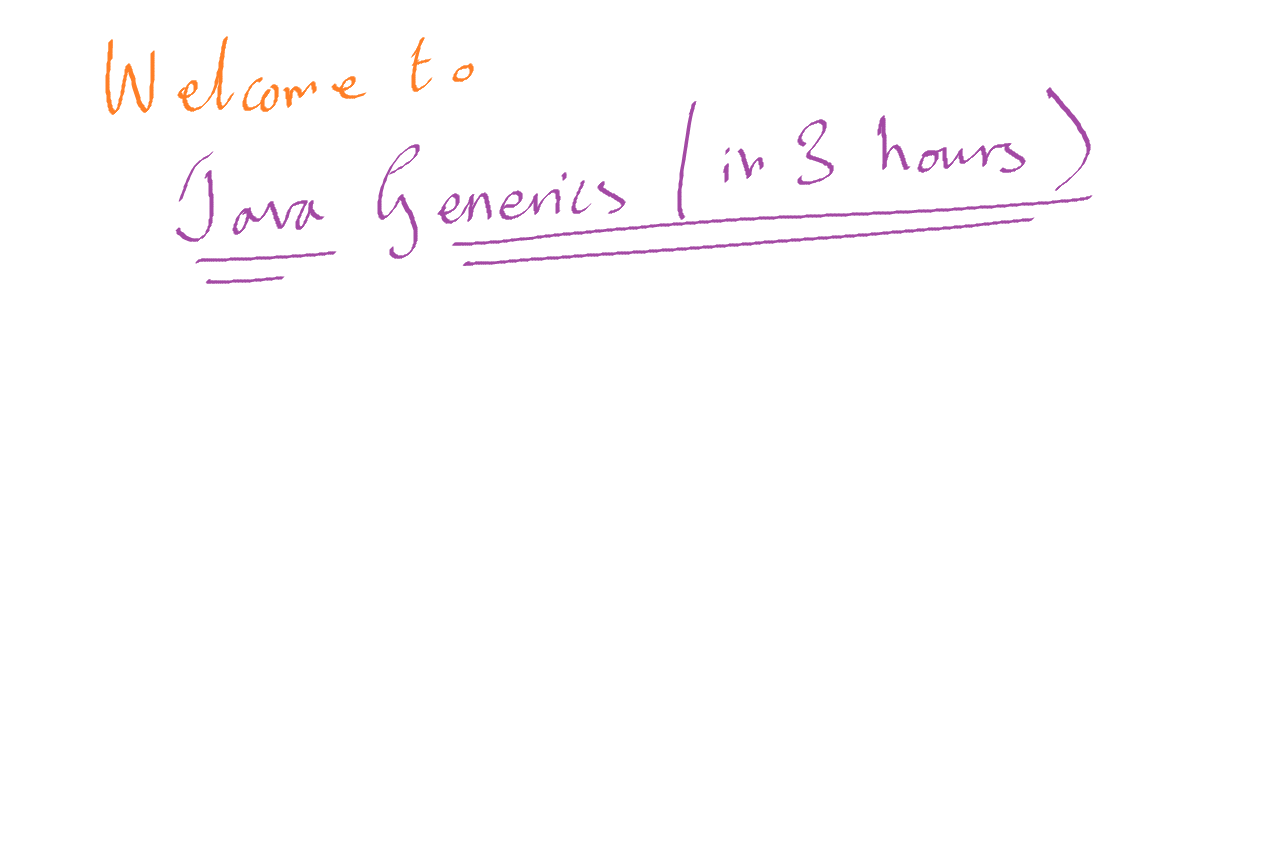
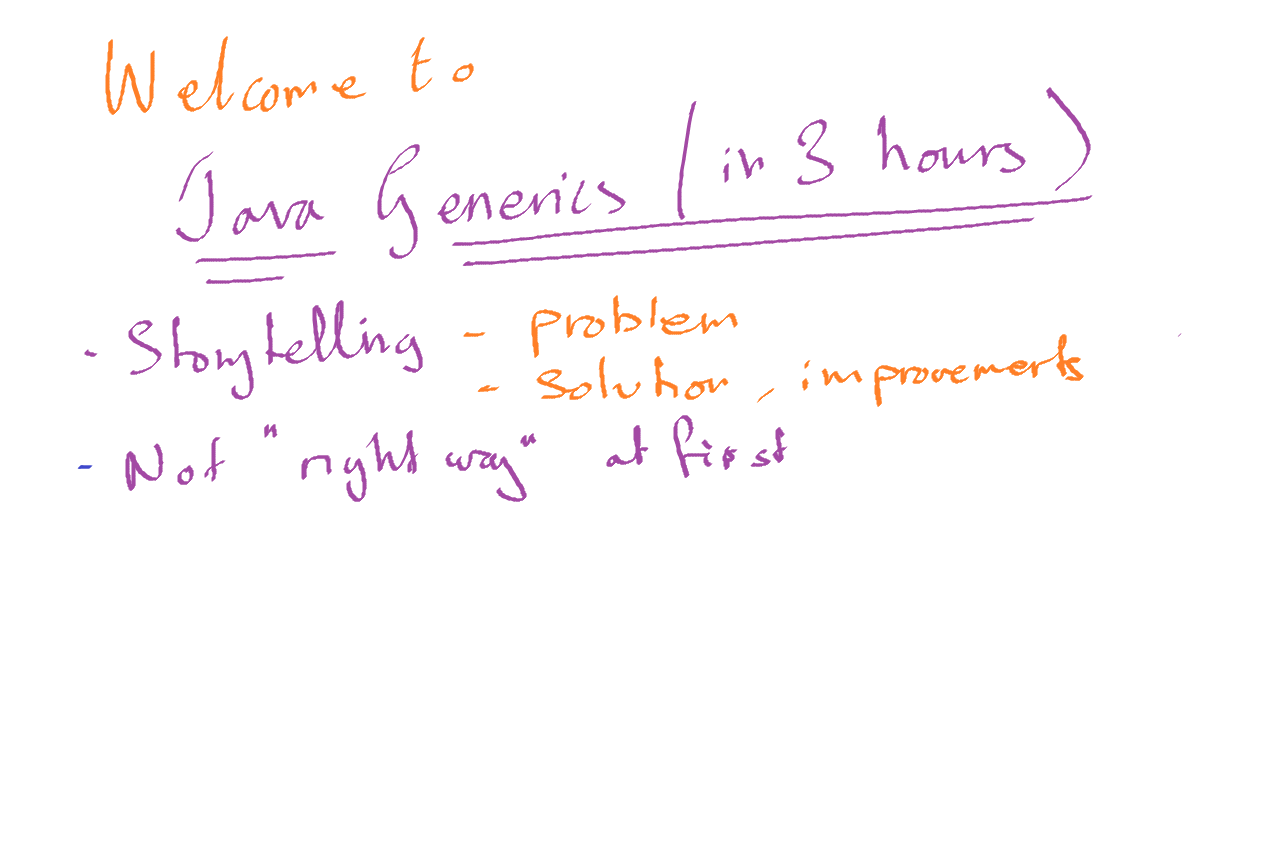
Initial examples of compile time nature of generic checks, generic type declaration, generic method

diff --git a/src/main/java/simple/ClothingPair.java b/src/main/java/simple/ClothingPair.java
@@ -1,0 +1,25 @@
+package simple;
+
+public class ClothingPair<F extends Colored & Sized /*, String */> extends Pair<F> {
+//    String x;
+//    java.lang.String y;
+
+    public ClothingPair(F left, F right) {
+        super(left, right);
+//        x = "Hello"; // Even though x storage seems to be "Object" still cannot
+        // do this, as the usage determines the limits of valid x...
+    }
+
+    // type var declaration <G> isn't used here, but is legal
+    public <G> boolean isMatched() {
+//         could we use "instanceof Colored" and a cast -- well, yes, but DON'T!
+        return left.getColor().equals(right.getColor())
+            && left.getSize() == right.getSize();
+    }
+
+    public static <F extends Sized & Colored> boolean matches(ClothingPair<F> p) {
+//        return p.left.getColor().equals(p.right.getColor())
+//                && p.left.getSize() == p.right.getSize();
+        return p.isMatched();
+    }
+}

diff --git a/src/main/java/simple/Shop.java b/src/main/java/simple/Shop.java
@@ -1,0 +1,22 @@
+package simple;
+
+import java.time.LocalDate;
+
+public class Shop {
+    public static void main(String[] args) {
+        // RAW types do not get checked
+//        Pair ps = new Pair("Fred", LocalDate.now());
+        Pair<String> ps = new Pair<>("Fred", "Jones");
+
+        // type checking rejects this.
+//        ps.setRight(LocalDate.now());
+        ps.setRight("Smith");
+
+        // ClothingPair's bound rejects String, because it's not Colored
+//        ClothingPair<String> bad;
+        ClothingPair<Shoe> pShoe = new ClothingPair<>(
+                new Shoe("Black", 44), new Shoe("Black", 43));
+
+        System.out.println("shoes match? " + pShoe.isMatched());
+    }
+}

diff --git a/src/main/java/simple/Shoe.java b/src/main/java/simple/Shoe.java
@@ -1,0 +1,35 @@
+package simple;
+
+public class Shoe implements Sized, Colored {
+    private String color;
+    private int size;
+
+    public Shoe(String color, int size) {
+        this.color = color;
+        this.size = size;
+    }
+
+    public String getColor() {
+        return color;
+    }
+
+    public void setColor(String color) {
+        this.color = color;
+    }
+
+    public int getSize() {
+        return size;
+    }
+
+    public void setSize(int size) {
+        this.size = size;
+    }
+
+    @Override
+    public String toString() {
+        return "Shoe{" +
+                "color='" + color + '\'' +
+                ", size=" + size +
+                '}';
+    }
+}

diff --git a/src/main/java/simple/Pair.java b/src/main/java/simple/Pair.java
@@ -1,0 +1,35 @@
+package simple;
+
+public class Pair<E> {
+    E left;
+    E right;
+
+    public Pair(E left, E right) {
+        this.left = left;
+        this.right = right;
+    }
+
+    public E getLeft() {
+        return left;
+    }
+
+    public void setLeft(E left) {
+        this.left = left;
+    }
+
+    public E getRight() {
+        return right;
+    }
+
+    public void setRight(E right) {
+        this.right = right;
+    }
+
+    @Override
+    public String toString() {
+        return "Pair{" +
+                "left=" + left +
+                ", right=" + right +
+                '}';
+    }
+}

diff --git a/src/main/java/simple/BetterList.java b/src/main/java/simple/BetterList.java
@@ -1,0 +1,28 @@
+package simple;
+
+import java.time.LocalDate;
+import java.util.ArrayList;
+import java.util.Arrays;
+import java.util.List;
+
+public class BetterList {
+    public static void addItem(List l) {
+        l.add(0, LocalDate.now());
+    }
+
+    public static void main(String[] args) {
+
+        List<String> ls = new ArrayList<>();
+        ls.add("Hello");
+        ls.add("Bonjour");
+        ls.add("你好");
+
+        addItem(ls);
+        System.out.println(ls.get(0));
+
+        String s = ls.get(0);
+//        ls.add(LocalDate.now());
+
+        String s1 = ls.get(3);
+    }
+}

diff --git a/src/main/java/simple/ListStuff.java b/src/main/java/simple/ListStuff.java
@@ -1,4 +1,21 @@
 package simple;
 
+import java.time.LocalDate;
+import java.util.ArrayList;
+import java.util.List;
+
 public class ListStuff {
+    public static void main(String[] args) {
+        List ls = new ArrayList();
+        ls.add("Hello");
+        ls.add("Bonjour");
+        ls.add("你好");
+
+        System.out.println(ls.get(0));
+
+        String s = (String)ls.get(0);
+        ls.add(LocalDate.now());
+
+        String s1 = (String)ls.get(3);
+    }
 }

diff --git a/src/main/java/simple/Colored.java b/src/main/java/simple/Colored.java
@@ -1,0 +1,5 @@
+package simple;
+
+public interface Colored {
+    String getColor();
+}

diff --git a/src/main/java/simple/Sized.java b/src/main/java/simple/Sized.java
@@ -1,0 +1,5 @@
+package simple;
+
+public interface Sized {
+    int getSize();
+}

diff --git a/src/main/java/simple/HonorStudent.java b/src/main/java/simple/HonorStudent.java
@@ -1,0 +1,4 @@
+package simple;
+
+public class HonorStudent {
+}

diff --git a/src/main/java/Student.java b/src/main/java/Student.java
@@ -1,0 +1,2 @@
+public class Student {
+}
